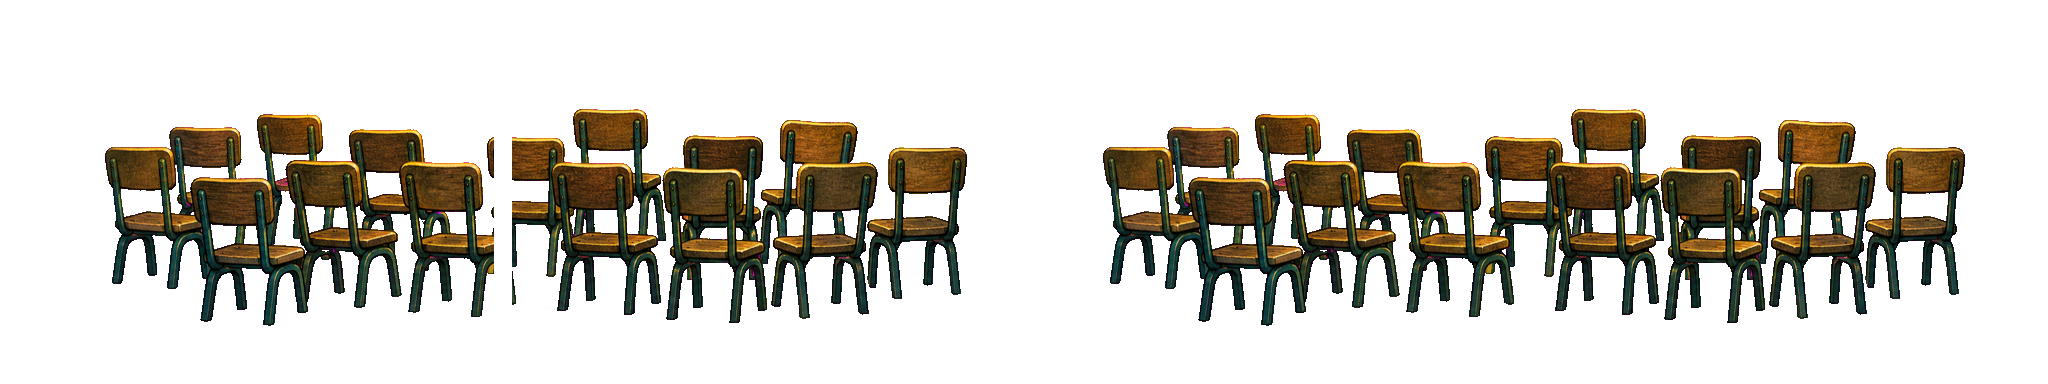
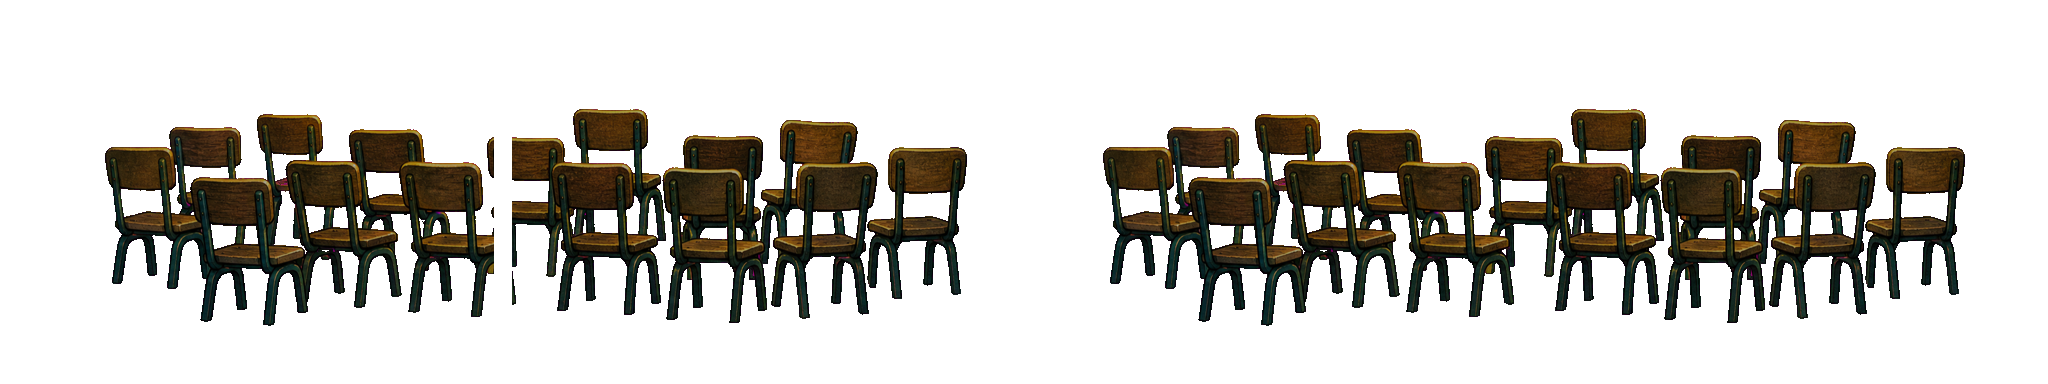
R5-W3 · A5 (1) — Die Schulstühle stehen vorn, und das Lesbarkeits-Gesetz bewacht die Arena wieder
Kokis Befund war halb gelöst: H1 hat die leeren Schulstühle überhaupt erst in
den Raum geholt, konnte sie aber nur in die FERNE hängen — als nahe Möbelreihe
maßen sie 22,26 % gegen ein Fenster, das bei 21,0 % endet, und H1 schrieb
ehrlich dazu: »repainting a sheet this session may not«. Diese Session darf.

`scripts/set-plane-value.mjs` bringt `band_p4_audience` auf DEKLARIERTE 14,8 %:
ein multiplikativer Durchgang, Farbton und Sättigung unangetastet — dasselbe
Gemälde in einer anderen Tonlage. Die Zahl ist kein Geschmack, sie ist das
einzige Fenster, das zwei Gesetze offen lassen: das Band [14,0 · 21,0] aus
Audit 1 und die ABSOLUTE L2↔L3-Trennung von 12 Punkten gegen ein L3 von
27,5 %, die L2 bei 15,5 deckelt.

Damit tauschen die Reihen: die Schulstühle sind `mid`, die blauen Ohrensessel
fallen dorthin zurück, wohin `midFarBand` alles Hintere legt — 0,68 der Höhe,
über die Oberkante der nahen Reihe gehoben, Parallaxe 0,36, auf 0,62
durchscheinend. Gelöscht wird nichts; der Salon wird die Tiefe hinter der
Klasse.

★ UND DER WAIVER IST AUFGEBRAUCHT. `SEPARATION_WAIVERS` hat die Arena vom
einen ABSOLUTEN Lesbarkeits-Gesetz freigestellt (»Gegner dürfen sich nie vor
Möbeln tarnen«), ausdrücklich »until the F2 l2_p4 touch-up«. Der Touch-up ist
passiert — an dem Blatt, das nach vorne gerückt ist — und die Arena besteht
das Gesetz jetzt aus eigener Kraft: 12,7 Punkte gegen geforderte 12. Der
Eintrag ist weg, die Tabelle bleibt (ein Waiver ist ein benannter Raum mit
[…]

Changed region(s): [[0.5312, 0.2812, 0.9688, 0.6875], [0.0312, 0.2812, 0.4688, 0.75], [0.7188, 0.6875, 0.75, 0.7188]]

diff --git a/packages/game-paint/src/composition.ts b/packages/game-paint/src/composition.ts
@@ -699,22 +699,30 @@ export const CH01_COMPOSITION: Record<string, CompositionSpec> = {
     // whole time. What rendered instead was `l2_p4` — blue Victorian armchairs
     // and a sofa. The chapter fought its boss in a parlour.
     //
-    // So the near band is the school chairs, and the armchairs keep the row
-    // BEHIND them: ghosted, smaller and slower, they read as the back of a hall
-    // rather than as competing furniture — and nothing has to be deleted for
-    // the premise to arrive. This is also what the victory beat needs; „warm
-    // light over the chair band" had no chair band to warm.
-    // …and the far row is where they belong, not the near one. The line says
-    // „in der FERNE", and `midFarBand` is exactly that: 0.68 of the height,
-    // lifted above the near row's top edge, parallax 0.36, ghosted to 0.62 —
-    // the back of a hall. Measured, not preferred: the value law (doc 36 §1)
-    // reads L2 off `mid`, and the school chairs' wood is brighter than the
-    // dusk band allows (22.3 % against a 14–21 % window, and the L1↔L2 lift
-    // collapsing to 2.8 %). Putting them near would have meant either bending
-    // a measured readability law or repainting a sheet this session may not.
-    // Behind the armchairs they cost nothing and read as what they are.
-    midFar: { ...midFarBand("p4", midBand("p4", 96)), segments: ["band_p4_audience"] },
-    mid: midBand("p4", 96),
+    // R5-W3 · A5 · …AND NOW THEY ARE THE ROW YOU ARE STANDING IN.
+    //
+    // H1 could only get the chairs into the room, not to the front of it. It
+    // put them in the FAR row and wrote down exactly why: the value law reads
+    // L2 off `mid`, and the school chairs' wood measured 22.3 % against a
+    // 14–21 % window, with the L1↔L2 lift collapsing to 2.8 %. Its last line
+    // was „repainting a sheet this session may not". Koki's verdict on the
+    // result was that the armchairs were still in front — his „Ohrensessel
+    // statt Schulstühle" was half-answered — so this session may, and did.
+    //
+    // `scripts/set-plane-value.mjs` took the sheet to a DECLARED 14.8 %: one
+    // multiplicative pass, hue and saturation untouched, the same painting at
+    // a different key. That number is not taste, it is the only window two
+    // laws leave open — audit 1's band [14.0, 21.0], and the ABSOLUTE L2↔L3
+    // separation of 12 points against this room's L3 of 27.5 %, which caps L2
+    // at 15.5. So the chairs take the near row, and the armchairs fall back to
+    // where `midFarBand` puts anything behind: 0.68 of the height, lifted past
+    // the near row's top edge, parallax 0.36, ghosted to 0.62 — the back of a
+    // hall. Nothing is deleted; the parlour becomes the depth behind the class.
+    //
+    // The victory beat needed this too: „warmes Licht überm Stuhl-Band" had no
+    // chair band to warm while the chairs were the far row.
+    mid: { ...midBand("p4", 96), segments: ["band_p4_audience"] },
+    midFar: midFarBand("p4", midBand("p4", 96)),
     // two stage lamps, nearly vertical and wider than a window's beam — the one
     // room in the chapter whose light is aimed rather than let in.
     // PK-R6 · H2 (round-2 finding 9): …and the lamps are now DRAWN. This phase
